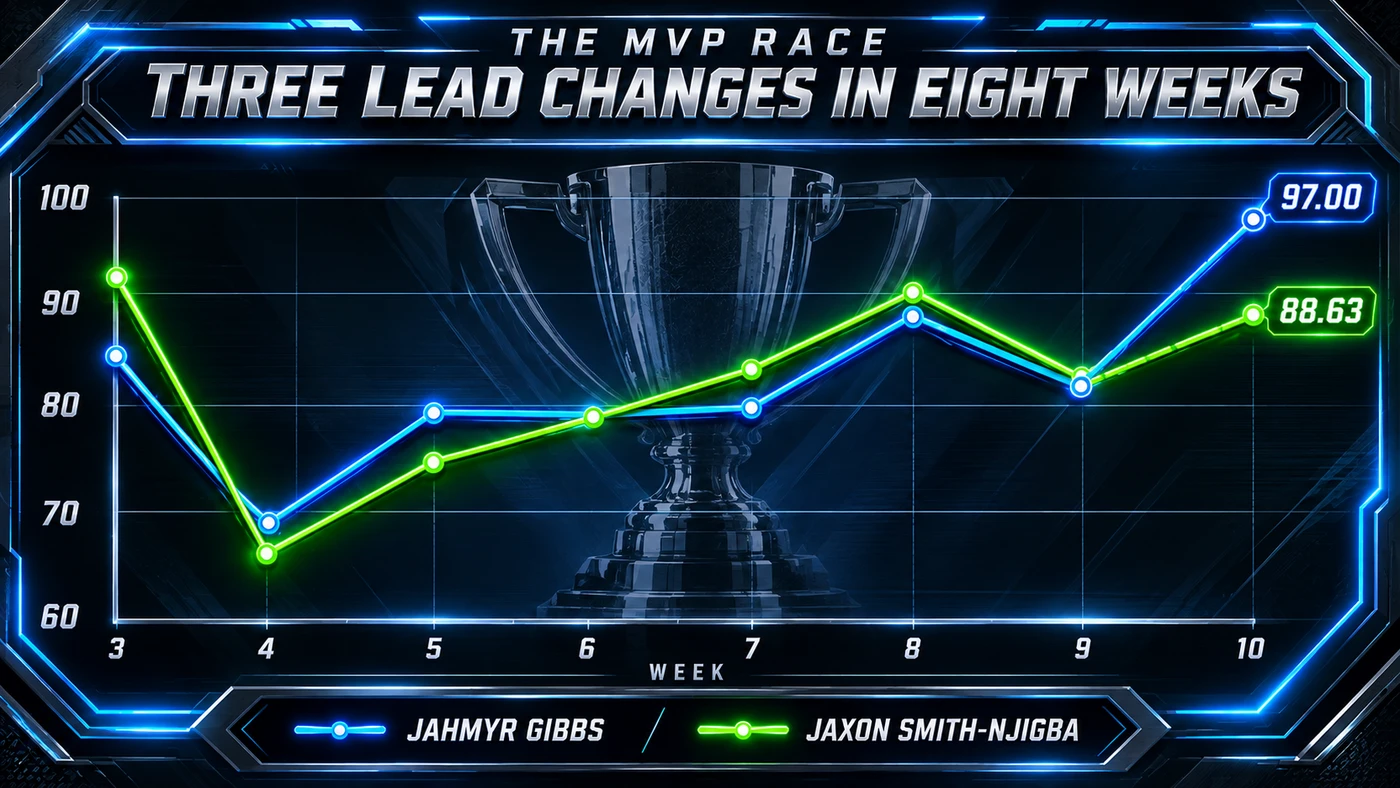
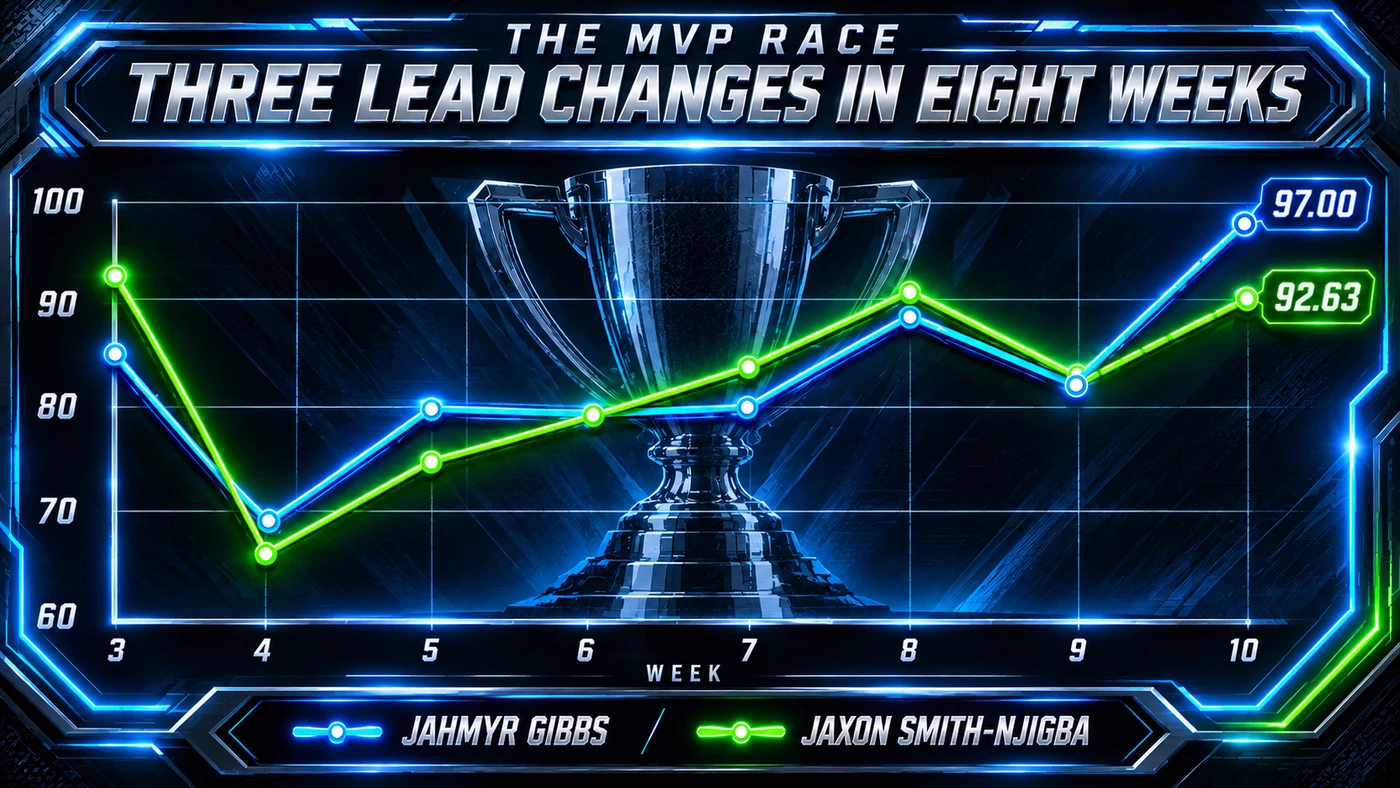
Week 10: new MVP race chart
Redrawn with Smith-Njigba's corrected Week 10 figure of 92.63. Same
dimensions as the old one, so nothing in the layout moves. Verified
against the ladder at all eight weeks, including the three crossings.

The chart carries its own "three lead changes in eight weeks" headline
now, so the caption no longer repeats it.

Claude-Session: https://claude.ai/code/session_013zvrbkmsLqJGurJxMMmd5c

diff --git a/public/index.html b/public/index.html
@@ -883,7 +883,7 @@ const ISSUE={
    'Jon is 3–7 with four games left. On Sunday he was already negotiating the end of it: <em>“bench him graham i need to beat you on points tiebreaker when we’re both 7-7.”</em> That sentence only works if he wins out.']},
   mvp:{title:'The Lead Changes Hands Again', img:'news/w10-mvprace.webp', h:788,
     alt:'A line chart of the MVP race from Week 3 to Week 10',
-    cap:'Three lead changes in eight weeks. Since Week 3 the gap has never once reached five points.', body:[
+    cap:'Since Week 3 the gap has never once reached five points.', body:[
    'Gibbs goes to <strong>97.00</strong>. Jaxon Smith-Njigba, who scored 31.1 and had a perfectly good week, goes to <strong>92.63</strong>. A week ago Smith-Njigba led by 1.08. Gibbs leads by <strong>4.37</strong>.',
    'Most of that 5.45 swing was not earned on the field. <strong>Kenneth Walker III missed the week with a groin injury</strong>, and the ladder pays a man twice over for the gap between him and the second-best at his position. Walker is frozen at 24.550. Gibbs went from 26.150 to 28.156. The gap went from 1.600 to <strong>3.606</strong>, and that alone is worth 4.01 of it.',
    'It is the second week running that an injury to someone else has moved this race. Puka Nacua’s put Smith-Njigba in front a week ago, by taking the receiver baseline away. Walker’s has taken it back.',
